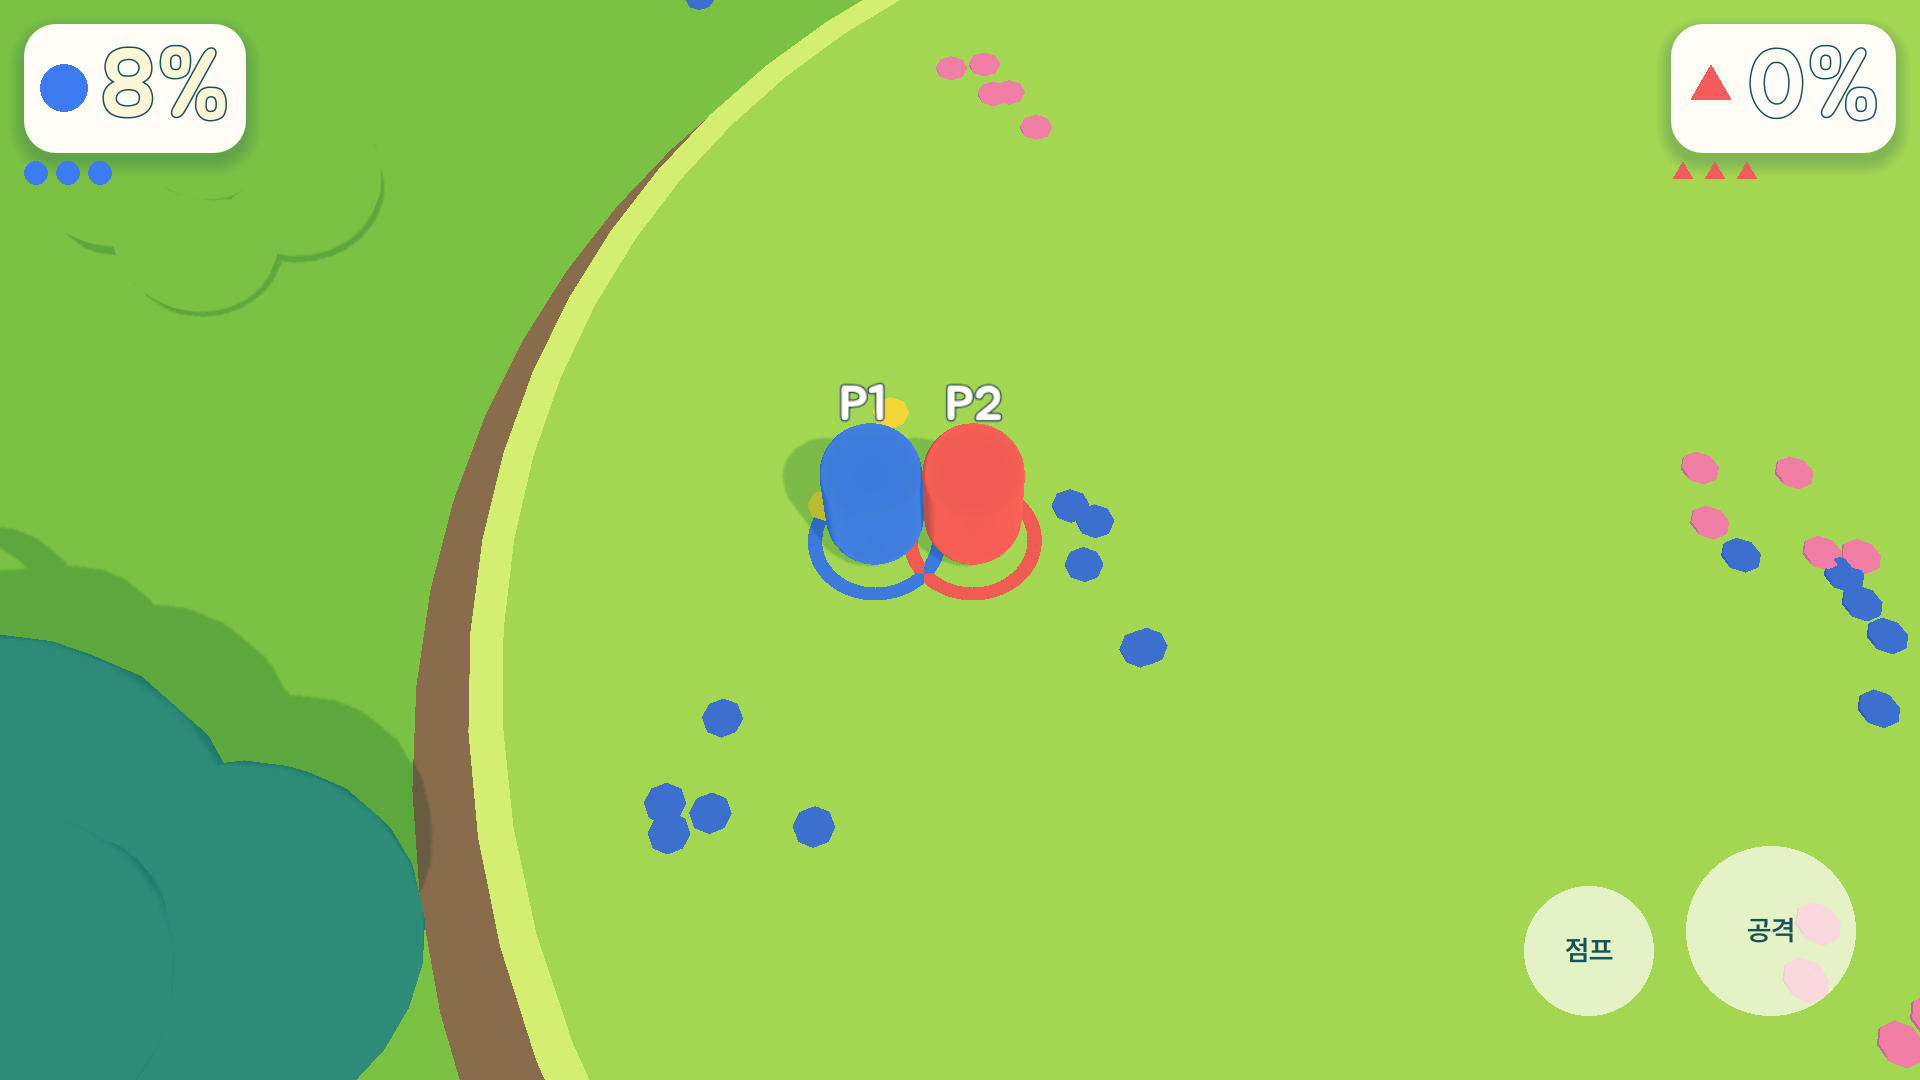
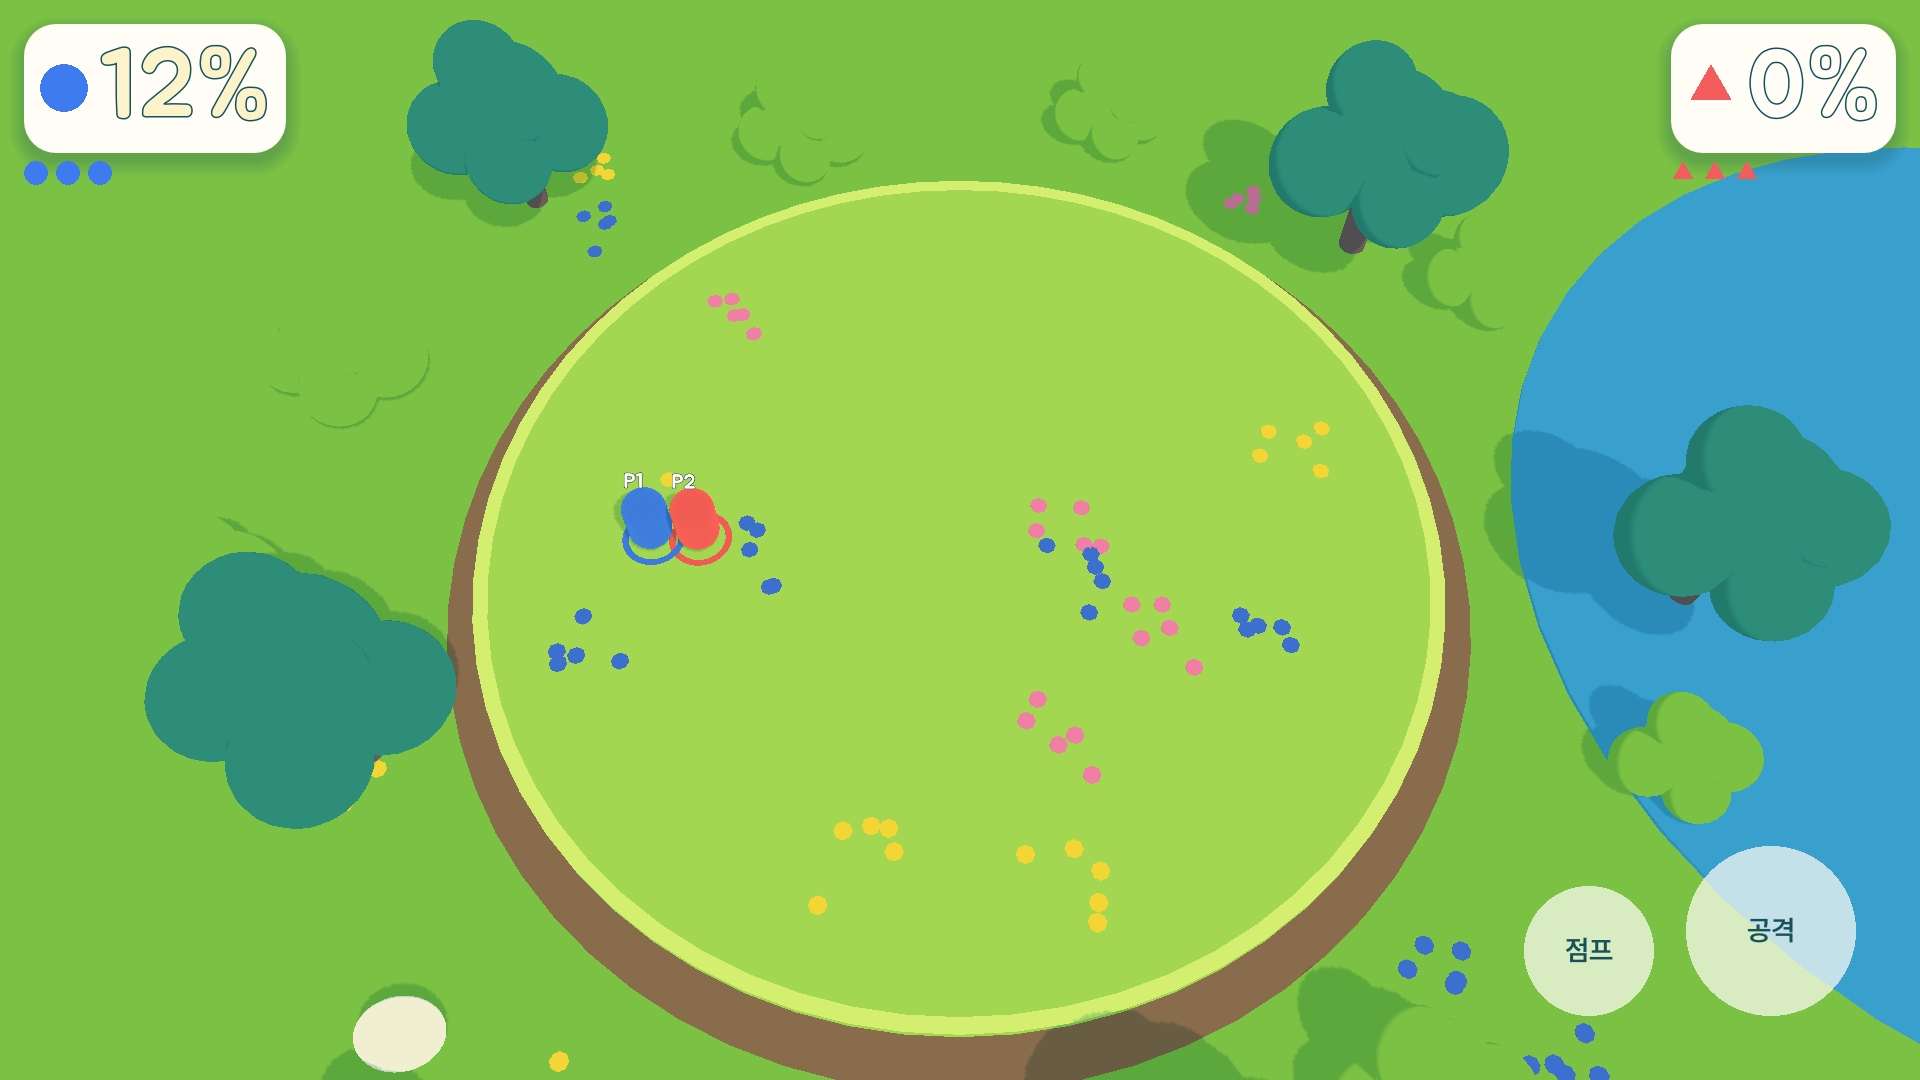
fix: always frame the whole arena so the ring-out edge stays visible

diff --git a/docs/design.md b/docs/design.md
@@ -382,7 +382,7 @@
 | GD-FEEL-02 | 화면 흔들림 | 진폭 = min(k × `shake_per_knockback`, `shake_max`), 지수 감쇠. hitstop이 끝날 때 시작 | `shake_per_knockback`, `shake_max`, `shake_decay` |
 | GD-FEEL-03 | 무적 깜빡임 | 리스폰 무적 동안 반투명 펄스 10Hz, 마지막 0.5초는 20Hz | `blink_hz`, `blink_hz_end` |
 | GD-FEEL-04 | 넉백 궤적 강도 | DS-VFX-04 강도 = 속도 / `trail_speed_full` | `trail_speed_threshold`, `trail_speed_full` |
-| GD-CAM-01 | 카메라 | 레퍼런스 A의 높은 부감(피치 약 60°), 모든 생존 전투원을 여백과 함께 프레이밍, 줌 최소·최대 제한, 스무딩. KO된 전투원은 추적 제외 | `cam_pitch`, `cam_margin`, `cam_zoom_min/max`, `cam_smooth` |
+| GD-CAM-01 | 카메라 | 레퍼런스 A의 높은 부감(피치 약 60°), 경기장 전체와 모든 생존 전투원을 여백과 함께 프레이밍(링아웃 가장자리가 항상 보이고, 전투원이 그 밖으로 날아가면 시야가 넓어진다), 줌 최소·최대 제한, 스무딩. KO된 전투원은 추적 제외 | `cam_pitch`, `cam_margin`, `cam_zoom_min/max`, `cam_smooth` |
 | GD-ANIM-01 | 애니메이션 매핑 | sim 상태 → 애니 상태 1:1. 애니가 sim 타이밍을 바꾸지 않는다 (히트박스 활성 프레임은 sim이 결정, 애니는 맞춰 재생) | — |
 
 ---
